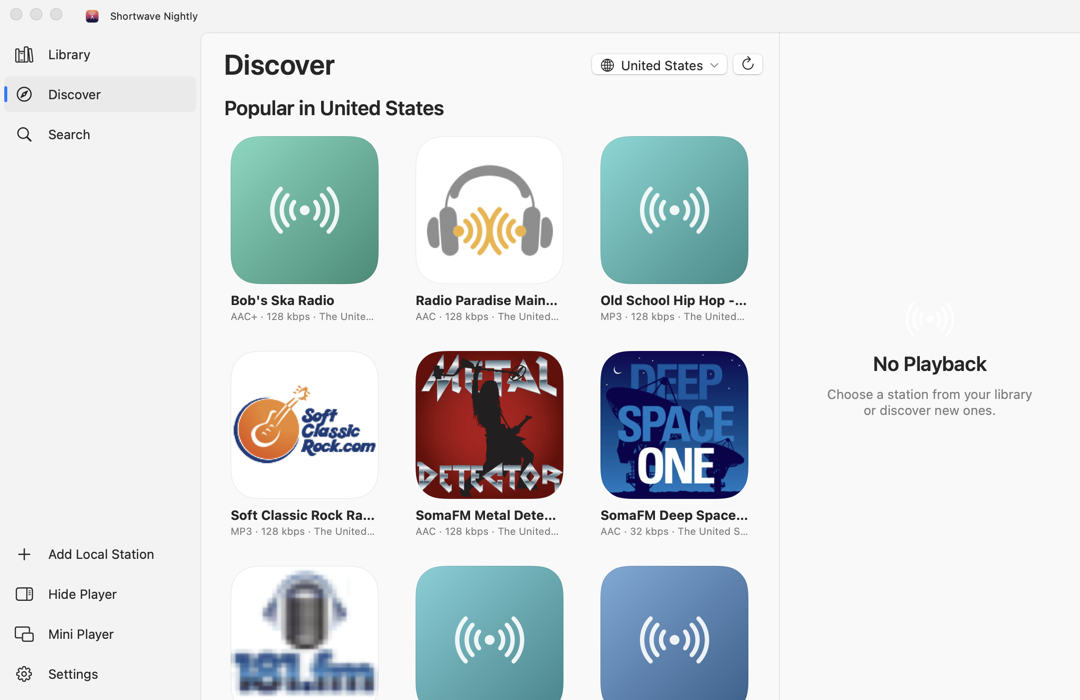
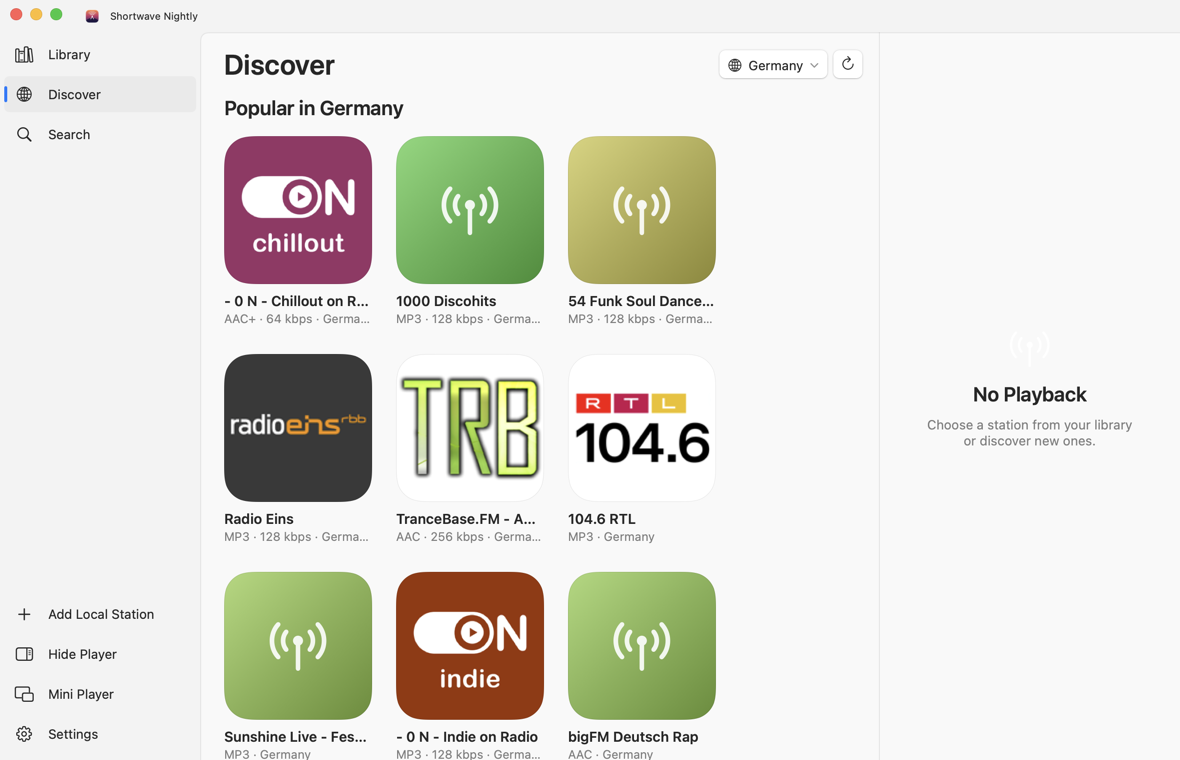
Mac design round 2 from the Windows review; library refresh race fix
From the Windows session's review (docs/MAC-WINDOWS-SYNC.md, "Mac: response to the review"):
- antenna glyph for placeholders and empty states, with tertiary glyph colour
- globe for Discover
- fixed 164-wide cards with 8/12 gaps, aligned to the leading edge; names 14 semibold
- large header and filter controls, and a chevron on More
- accent fill using WinUI's dark-mode rule (lighter shade, black glyph); accent-tinted volume slider
- an Add Local Station sheet title; a 640-wide station details sheet
- a mini player fitted to its content (92 pt)
- Screenshot runs draw at 1180×760 with the window active, then put the shared window frame back.
- refreshLibrary only updates the stations it asked about, so stations imported while the request
  was out aren't marked orphaned (the same fix as on Windows).
- The Mac now reads windows-export.json: readsWindowsExport passes, and exchange-test.sh imports it
  into the real app (3 stations, 1 cover).

diff --git a/Sources/Shortwave/Views/PlayerViews.swift b/Sources/Shortwave/Views/PlayerViews.swift
@@ -40,7 +40,7 @@ struct PlayerPanel: View {
                 .frame(maxWidth: .infinity)
             }
         } else {
-            EmptyState(symbol: "dot.radiowaves.left.and.right", title: "No Playback",
+            EmptyState(symbol: "antenna.radiowaves.left.and.right", title: "No Playback",
                        text: "Choose a station from your library or discover new ones.")
                 .frame(maxWidth: 260)
                 .frame(maxWidth: .infinity)
@@ -82,13 +82,13 @@ struct PlaybackControls: View {
             // Accent-filled round button, like the Windows app's.
             Button { player.togglePlayback() } label: {
                 ZStack {
-                    Circle().fill(player.station == nil ? AnyShapeStyle(.quaternary) : AnyShapeStyle(.tint))
+                    Circle().fill(player.station == nil ? AnyShapeStyle(.quaternary) : AnyShapeStyle(Fluent.accentFill))
                     if player.state == .loading {
-                        ProgressView().controlSize(large ? .regular : .small).tint(.white)
+                        ProgressView().controlSize(large ? .regular : .small).tint(Fluent.onAccent)
                     } else if player.isPlaying {
-                        RoundedRectangle(cornerRadius: 2).fill(.white).frame(width: large ? 16 : 10, height: large ? 16 : 10)
+                        RoundedRectangle(cornerRadius: 2).fill(Fluent.onAccent).frame(width: large ? 16 : 10, height: large ? 16 : 10)
                     } else {
-                        Image(systemName: "play.fill").font(.system(size: large ? 20 : 13, weight: .bold)).foregroundStyle(.white)
+                        Image(systemName: "play.fill").font(.system(size: large ? 20 : 13, weight: .bold)).foregroundStyle(Fluent.onAccent)
                             .offset(x: large ? 2 : 1)
                     }
                 }
@@ -119,6 +119,7 @@ struct VolumeControl: View {
             .buttonStyle(.plain)
             .help(player.isMuted ? "Unmute" : "Mute")
             Slider(value: $player.volume, in: 0...1)
+                .tint(.accentColor)
                 .frame(width: large ? 120 : 90)
                 .controlSize(.small)
                 .accessibilityLabel("Volume")
@@ -250,7 +251,8 @@ struct MiniPlayerWindow: View {
                 .frame(height: 28)
             MiniPlayer()
         }
-        .background(.regularMaterial)
-        .ignoresSafeArea(.container, edges: .top)
+        // The caption sits in the title bar's 28 pt, so the window is only as tall as its content.
+        .padding(.top, -28)
+        .background(.regularMaterial, ignoresSafeAreaEdges: .all)
     }
 }

diff --git a/Sources/Shortwave/Views/StationViews.swift b/Sources/Shortwave/Views/StationViews.swift
@@ -33,7 +33,7 @@ struct StationCover: View {
         return LinearGradient(colors: [Color(hue: stable, saturation: 0.45, brightness: 0.85),
                                        Color(hue: stable, saturation: 0.65, brightness: 0.55)],
                               startPoint: .topLeading, endPoint: .bottomTrailing)
-            .overlay(Image(systemName: "dot.radiowaves.left.and.right")
+            .overlay(Image(systemName: "antenna.radiowaves.left.and.right")
                 .font(.system(size: size * 0.36, weight: .medium))
                 .foregroundStyle(.white.opacity(0.9)))
     }
@@ -73,14 +73,14 @@ struct StationCard: View {
                         Image(systemName: "speaker.wave.2.fill").font(.caption).foregroundStyle(.tint)
                             .symbolEffect(.variableColor.iterative, isActive: app.player.state == .playing)
                     }
-                    Text(station.name).font(.headline).lineLimit(1)
+                    Text(station.name).font(.system(size: 14, weight: .semibold)).lineLimit(1)
                 }
-                Text(cardSubtitle).font(.caption).foregroundStyle(.secondary).lineLimit(1)
+                Text(cardSubtitle).font(.system(size: 12)).foregroundStyle(.secondary).lineLimit(1)
             }
             .frame(width: 148, alignment: .leading)
         }
         .padding(8)
-        .background(RoundedRectangle(cornerRadius: 14, style: .continuous).fill(hovering ? Color.primary.opacity(0.06) : .clear))
+        .background(RoundedRectangle(cornerRadius: 14, style: .continuous).fill(hovering ? Fluent.subtle : .clear))
         .contentShape(Rectangle())
         .onHover { hovering = $0 }
         .onTapGesture(count: 2) { app.play(station) }
@@ -124,7 +124,7 @@ struct StationMenu: View {
 struct StationGrid: View {
     let stations: [Station]
     var body: some View {
-        LazyVGrid(columns: [GridItem(.adaptive(minimum: 164, maximum: 200), spacing: 8, alignment: .top)], alignment: .leading, spacing: 12) {
+        LazyVGrid(columns: [GridItem(.adaptive(minimum: 164, maximum: 164), spacing: 8, alignment: .top)], alignment: .leading, spacing: 12) {
             ForEach(stations) { StationCard(station: $0) }
         }
     }

diff --git a/Sources/Shortwave/Views/Fluent.swift b/Sources/Shortwave/Views/Fluent.swift
@@ -32,6 +32,16 @@ enum Fluent {
     /// DividerStrokeColorDefault.
     static let divider = dynamic(light: black(0.08), dark: white(0.08))
 
+    /// TextFillColorTertiary: empty-state icons and chevrons.
+    static let tertiaryText = dynamic(light: black(0.447), dark: white(0.53))
+    /// AccentFillColorDefault: the accent, but the lighter shade in dark mode (WinUI's rule), so
+    /// glyphs on it are white in light mode and black in dark mode.
+    static let accentFill = Color(nsColor: NSColor(name: nil) { a in
+        let accent = NSColor.controlAccentColor.usingColorSpace(.sRGB) ?? .systemBlue
+        return a.bestMatch(from: [.darkAqua, .aqua]) == .darkAqua ? accent.blended(withFraction: 0.45, of: .white) ?? accent : accent
+    })
+    static let onAccent = dynamic(light: .white, dark: .black)
+
     static let titleFont = Font.system(size: 28, weight: .semibold)
     static let subtitleFont = Font.system(size: 20, weight: .semibold)
 }
@@ -45,7 +55,7 @@ struct PageHeader<Trailing: View>: View {
         HStack(spacing: 16) {
             Text(title).font(Fluent.titleFont).lineLimit(1).fixedSize()
             Spacer(minLength: 0)
-            HStack(spacing: 6) { trailing }
+            HStack(spacing: 6) { trailing }.controlSize(.large)
         }
         .frame(minHeight: 40)
         .padding(EdgeInsets(top: 12, leading: 24, bottom: 8, trailing: 16))
@@ -90,7 +100,7 @@ struct EmptyState<Actions: View>: View {
 
     var body: some View {
         VStack(spacing: 10) {
-            Image(systemName: symbol).font(.system(size: iconSize, weight: .light)).foregroundStyle(.tertiary)
+            Image(systemName: symbol).font(.system(size: iconSize, weight: .light)).foregroundStyle(Fluent.tertiaryText)
                 .padding(.bottom, 2)
             Text(title).font(Fluent.subtitleFont).multilineTextAlignment(.center)
             if !text.isEmpty {

diff --git a/Sources/Shortwave/Model/Screenshot.swift b/Sources/Shortwave/Model/Screenshot.swift
@@ -17,14 +17,29 @@ enum Screenshot {
                 openMain()
             }
         }
-        DispatchQueue.main.asyncAfter(deadline: .now() + max(delay, 2)) {
+        // Render at the Windows app's size (1180×760) with the window active, so accent-coloured
+        // controls draw as they do in use. Test copies share the installed app's saved window
+        // frame, so the old frame is put back before quitting.
+        var savedFrame: NSRect?
+        DispatchQueue.main.asyncAfter(deadline: .now() + 1.8) {
+            NSApp.activate()
+            guard let w = mainWindow() else { return }
+            w.makeKeyAndOrderFront(nil)
+            if !Diagnostics.openMiniPlayer {
+                savedFrame = w.frame
+                w.setFrame(NSRect(x: w.frame.minX, y: w.frame.maxY - 760, width: 1180, height: 760), display: true)
+            }
+        }
+        DispatchQueue.main.asyncAfter(deadline: .now() + max(delay, 2.5)) {
             if capture(to: URL(fileURLWithPath: path)) {
                 Diagnostics.log("screenshot \(path)")
             } else {
                 Diagnostics.log("screenshot failed: windows \(NSApp.windows.map { "\(type(of: $0)) \($0.frame)" })")
             }
-            // exit, not terminate: an open sheet can hold up a normal quit.
-            exit(0)
+            if let f = savedFrame { mainWindow()?.setFrame(f, display: false) }
+            // Let the window save its restored frame, then exit (not terminate: an open sheet can
+            // hold up a normal quit).
+            DispatchQueue.main.asyncAfter(deadline: .now() + 0.3) { exit(0) }
         }
     }
 

diff --git a/Sources/Shortwave/Views/Pages.swift b/Sources/Shortwave/Views/Pages.swift
@@ -11,7 +11,7 @@ struct LibraryPage: View {
                 LibraryMoreMenu()
             }
             if app.library.isEmpty {
-                EmptyState(symbol: "dot.radiowaves.left.and.right", title: "Your Library Is Empty",
+                EmptyState(symbol: "antenna.radiowaves.left.and.right", title: "Your Library Is Empty",
                            text: "Discover over 50,000 public stations and add the ones you like.", iconSize: 48) {
                     Button("Discover New Stations") { app.page = .discover }.buttonStyle(.borderedProminent)
                     Button("Add Local Station") { app.showingAddStation = true }
@@ -37,7 +37,6 @@ struct LibraryMoreMenu: View {
         } label: {
             Image(systemName: "ellipsis")
         }
-        .menuIndicator(.hidden)
         .fixedSize()
         .help("Import or export your saved stations")
         .accessibilityLabel("More")
@@ -292,6 +291,7 @@ struct SearchPage: View {
             }
           }
           .labelsHidden()
+          .controlSize(.large)
           .padding(EdgeInsets(top: 0, leading: 24, bottom: 8, trailing: 16))
         }
     }

diff --git a/Sources/Shortwave/Model/AppModel.swift b/Sources/Shortwave/Model/AppModel.swift
@@ -21,7 +21,7 @@ enum Page: String, Hashable, CaseIterable, Identifiable {
     var symbol: String {
         switch self {
         case .library: "books.vertical"
-        case .discover: "safari"
+        case .discover: "globe"
         case .search: "magnifyingglass"
         case .settings: "gearshape"
         }
@@ -271,9 +271,12 @@ final class AppModel {
         let ids = library.filter { !$0.isLocal }.map(\.id)
         guard !ids.isEmpty, let fresh = try? await api.stations(byUUIDs: ids) else { return }
         let byID = Dictionary(fresh.map { ($0.id, $0) }, uniquingKeysWith: { a, _ in a })
+        let asked = Set(ids)
         var changed = false
         library = library.map { s in
-            guard !s.isLocal else { return s }
+            // Stations added while the request was out (an import) weren't asked about: leave them
+            // to their own refresh rather than calling them orphaned.
+            guard !s.isLocal, asked.contains(s.id) else { return s }
             if let f = byID[s.id] {
                 let r = s.refreshed(from: f)
                 if r != s { changed = true }

diff --git a/Sources/Shortwave/Views/Sheets.swift b/Sources/Shortwave/Views/Sheets.swift
@@ -97,7 +97,7 @@ struct StationDetailSheet: View {
             }
             .formStyle(.grouped)
         }
-        .frame(width: 520, height: 600)
+        .frame(width: 640, height: 620)
         .toolbar {
             ToolbarItem(placement: .cancellationAction) { Button("Close") { dismiss() } }
         }
@@ -133,7 +133,9 @@ struct LocalStationSheet: View {
     @ViewState private var loaded = false
 
     var body: some View {
-        VStack(spacing: 0) {
+        VStack(alignment: .leading, spacing: 0) {
+            Text(editing == nil ? "Add Local Station" : "Edit Station").font(Fluent.subtitleFont)
+                .padding(EdgeInsets(top: 20, leading: 20, bottom: 0, trailing: 20))
             Form {
                 Section {
                     TextField("Name", text: $name)
